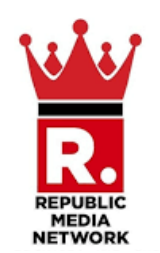
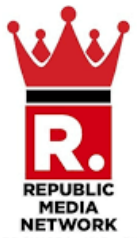
Button Hover

diff --git a/src/Navbar.css b/src/Navbar.css
@@ -106,6 +106,33 @@ body {
   cursor: pointer;
 }
 
+.btn {
+  position: relative;
+  overflow: hidden;
+  transition: transform 0.25s ease, box-shadow 0.25s ease;
+}
+
+.btn::after {
+  content: "";
+  position: absolute;
+  top: 0;
+  left: -100%;
+  width: 100%;
+  height: 100%;
+  background: rgba(255,255,255,0.25);
+  transition: left 0.35s ease;
+}
+
+.btn:hover::after {
+  left: 100%;
+}
+
+.btn:hover {
+  transform: translateY(-2px);
+  box-shadow: 0 8px 20px rgba(0,0,0,0.25);
+}
+
+
 .btn.black {
   background: #000;
   color: #fff;

diff --git a/src/index.css b/src/index.css
@@ -464,8 +464,8 @@ section {
 }
 
 .logo-box img {
-  max-height: 70px;
-  max-width: 160px;
+  max-height: 80px;
+  max-width: 180px;
   object-fit: contain;
 }
 
@@ -662,7 +662,7 @@ section {
 
 /* Footer */
 .footer {
-  background: #0f172a;
+  background: #0c162e;
   color: #cbd5f5;
   margin-top: 120px;
 }
